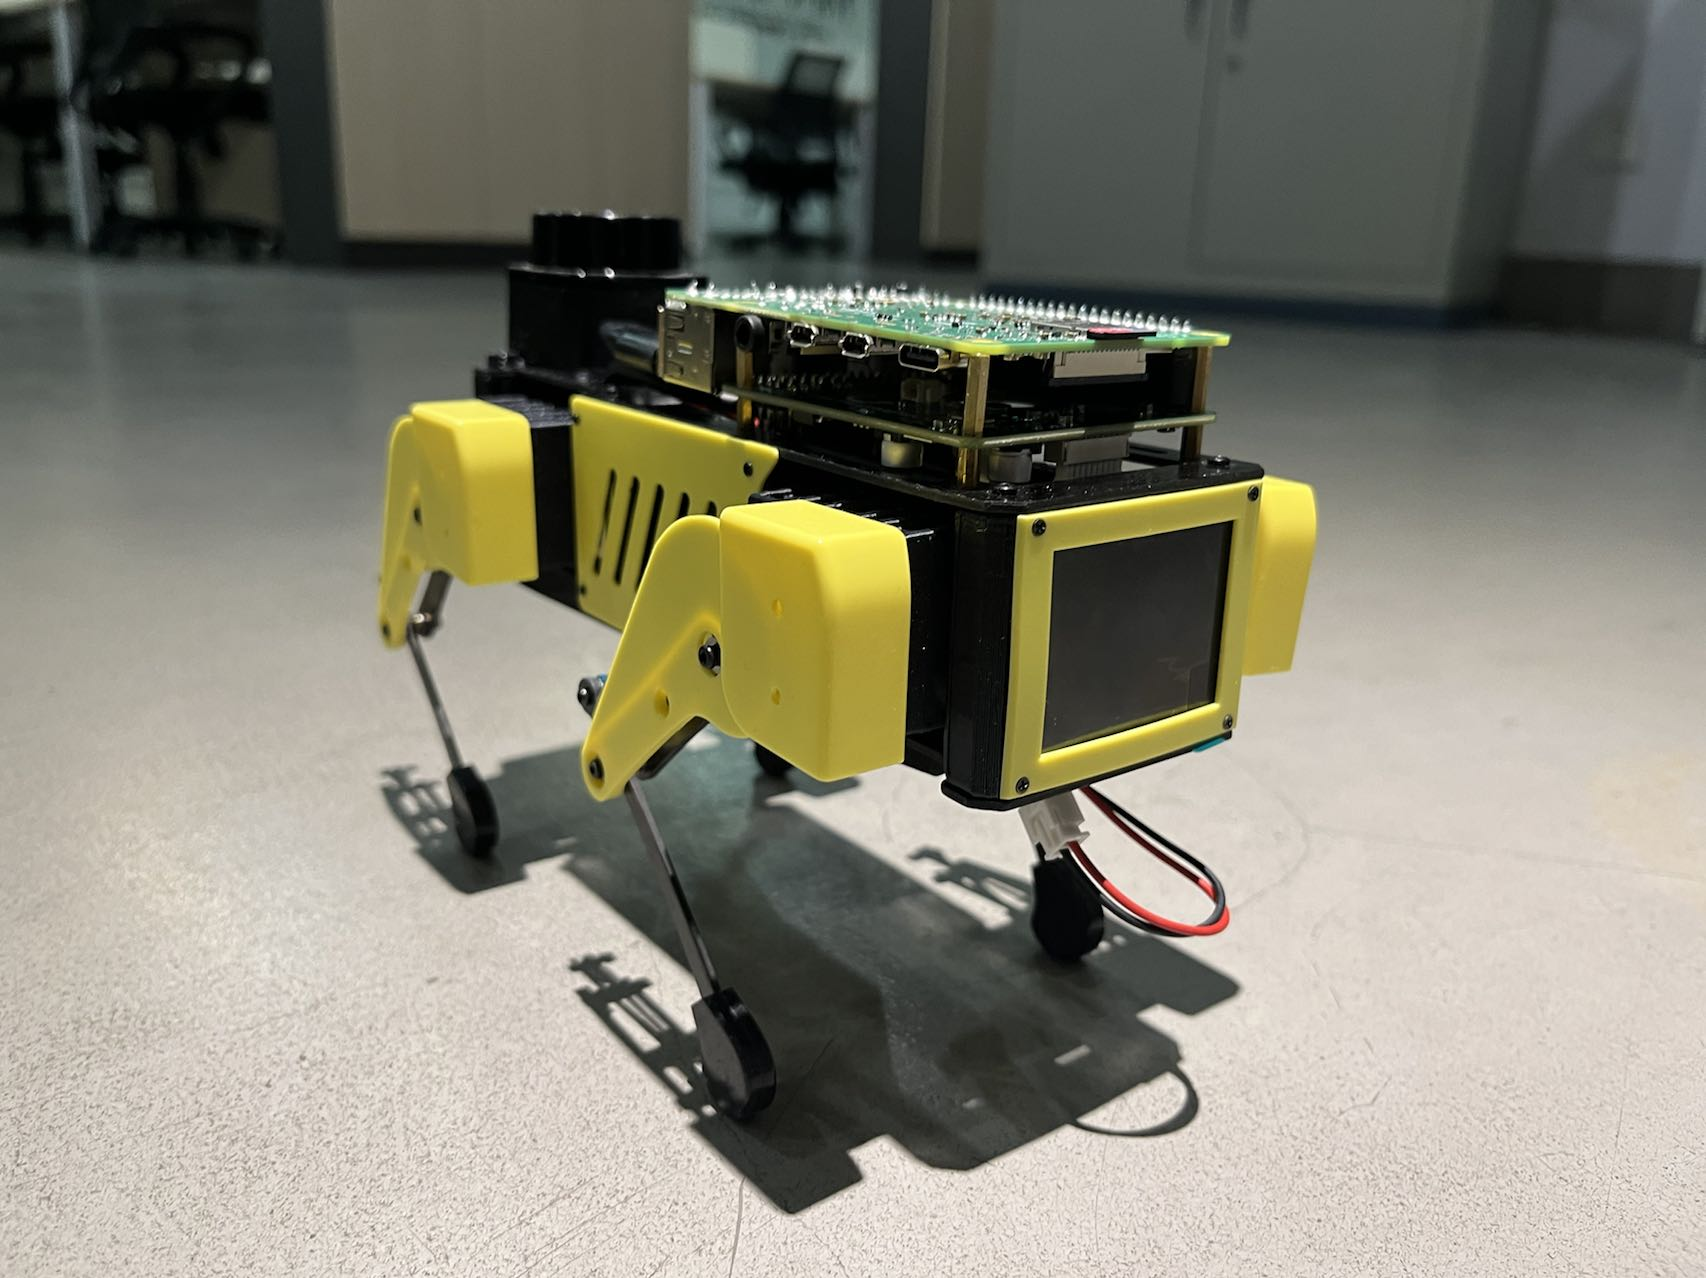
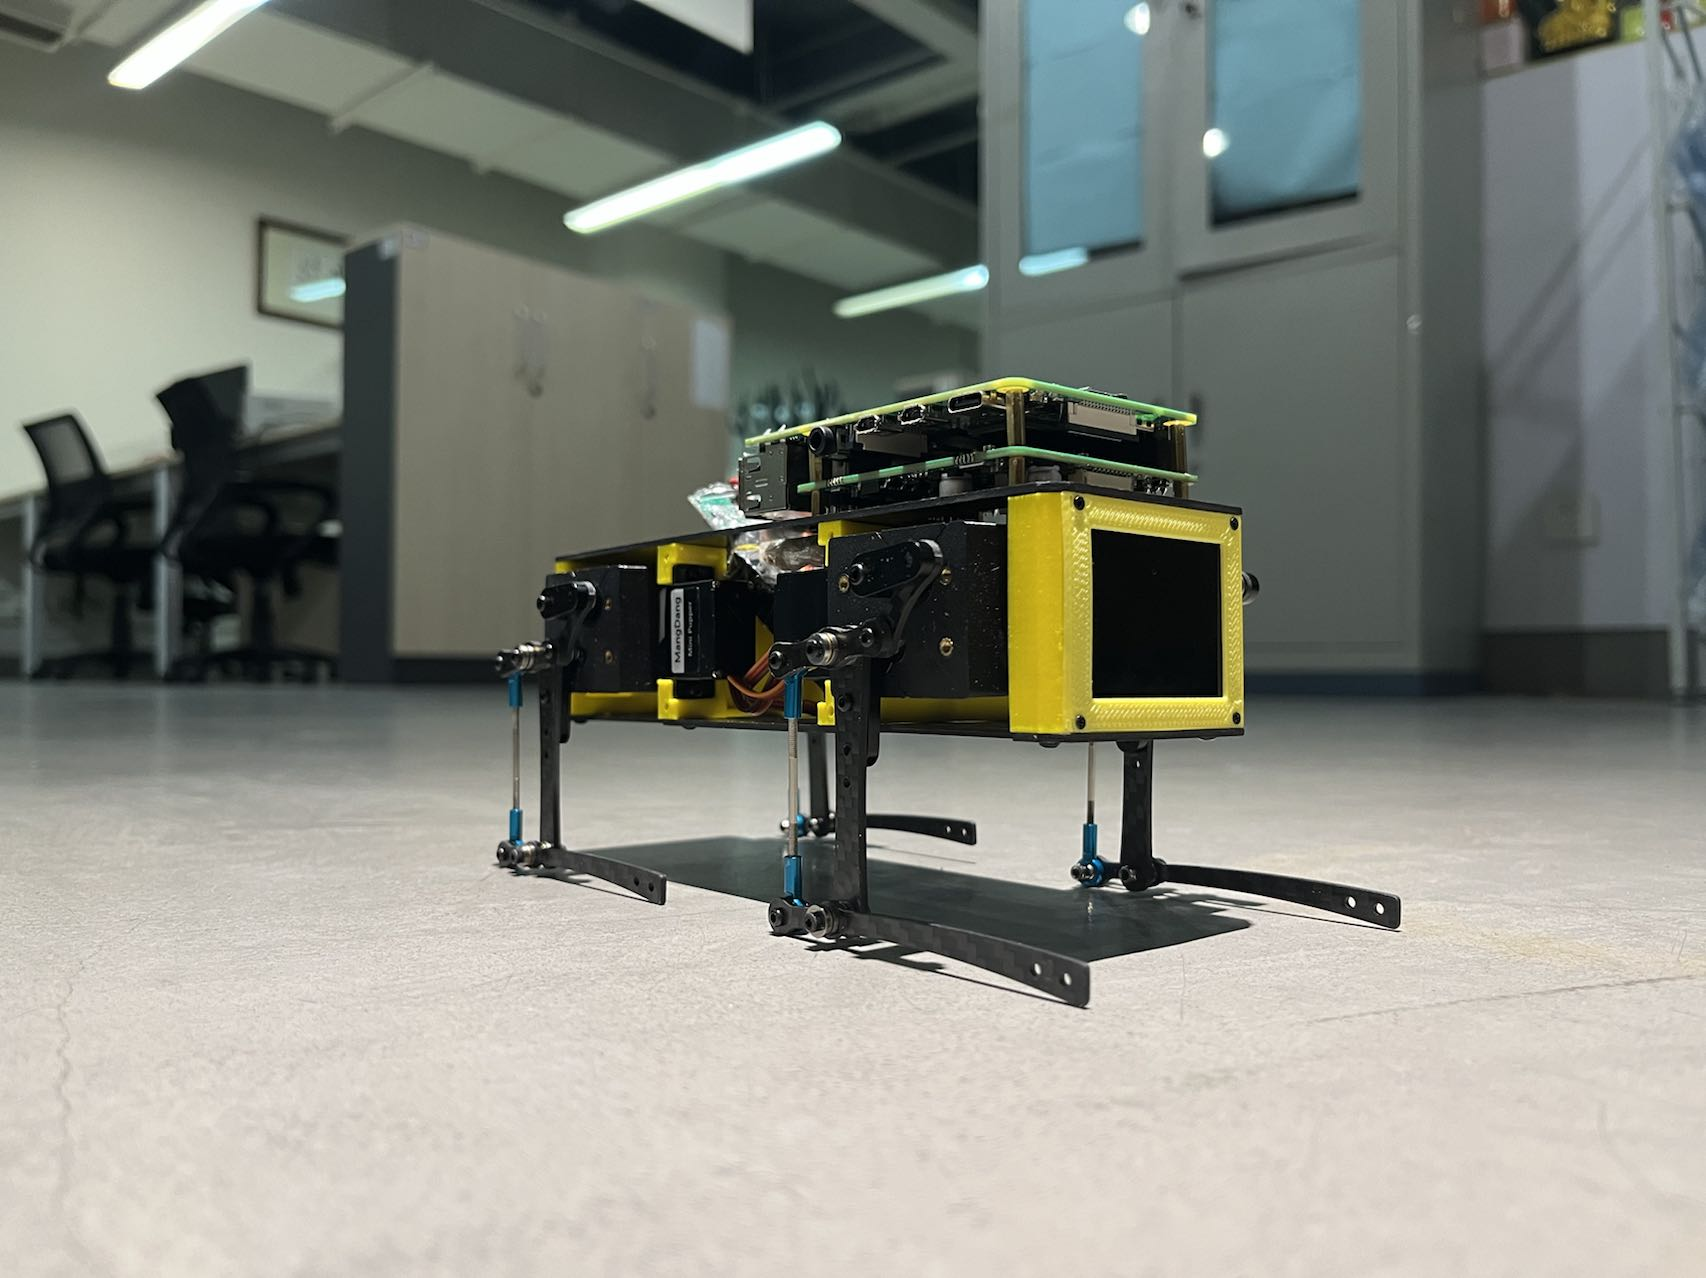
update readme

diff --git a/README.md b/README.md
@@ -131,7 +131,8 @@ export ROS_HOSTNAME=192.168.1.107
 
 ## 2.Quick Start Guide
 ### 2.1 Calibration
-Through this script, you can calibrate the angle of every servo in one turn. Just input the angles.
+Through this script, you can calibrate the angle of every servo in one turn. Just input the angles.</br>
+The hip and shank should be horizontal, and the ham should be vertical.
 ```sh
 roslaunch servo_interface calibrate.launch
 ```
